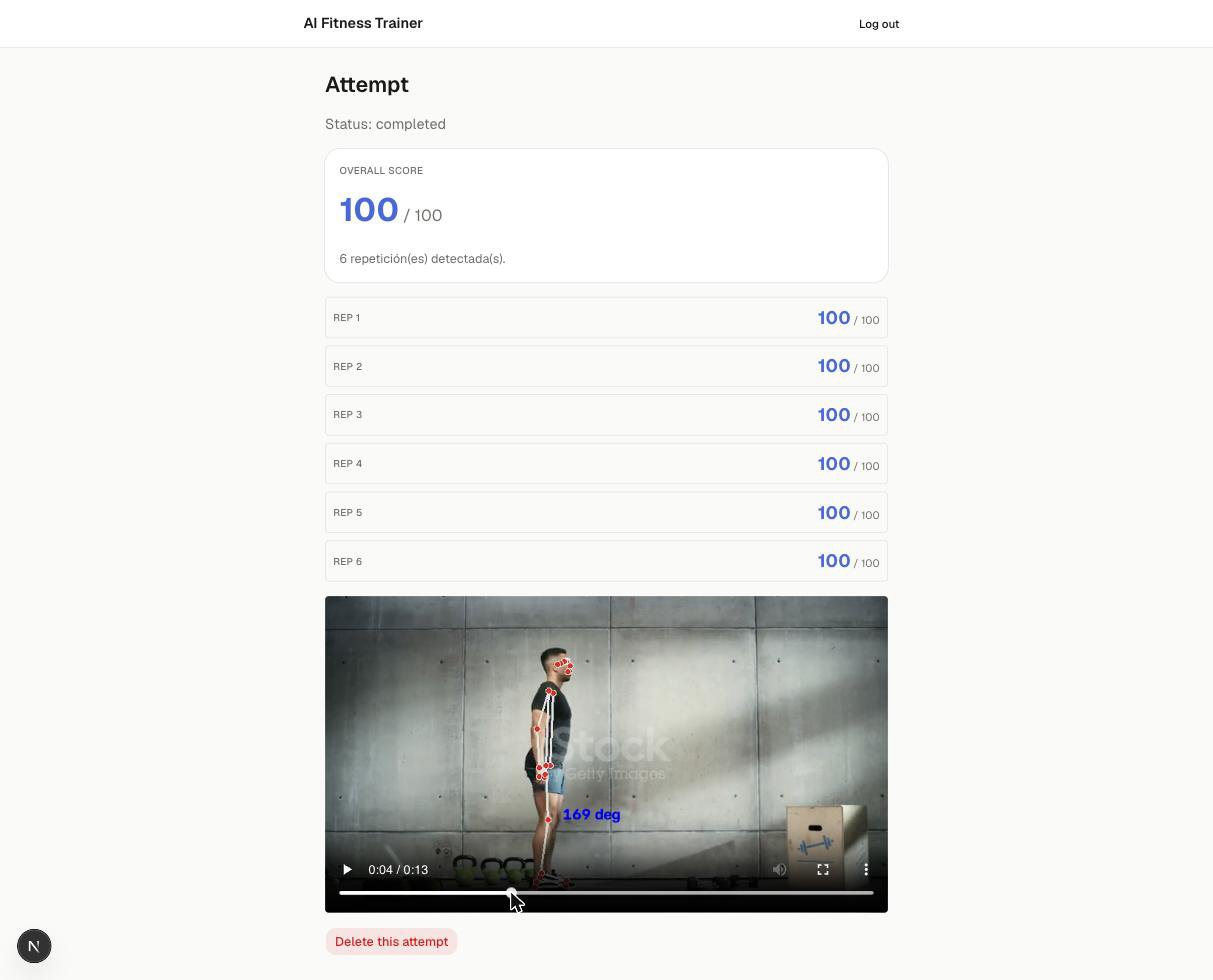
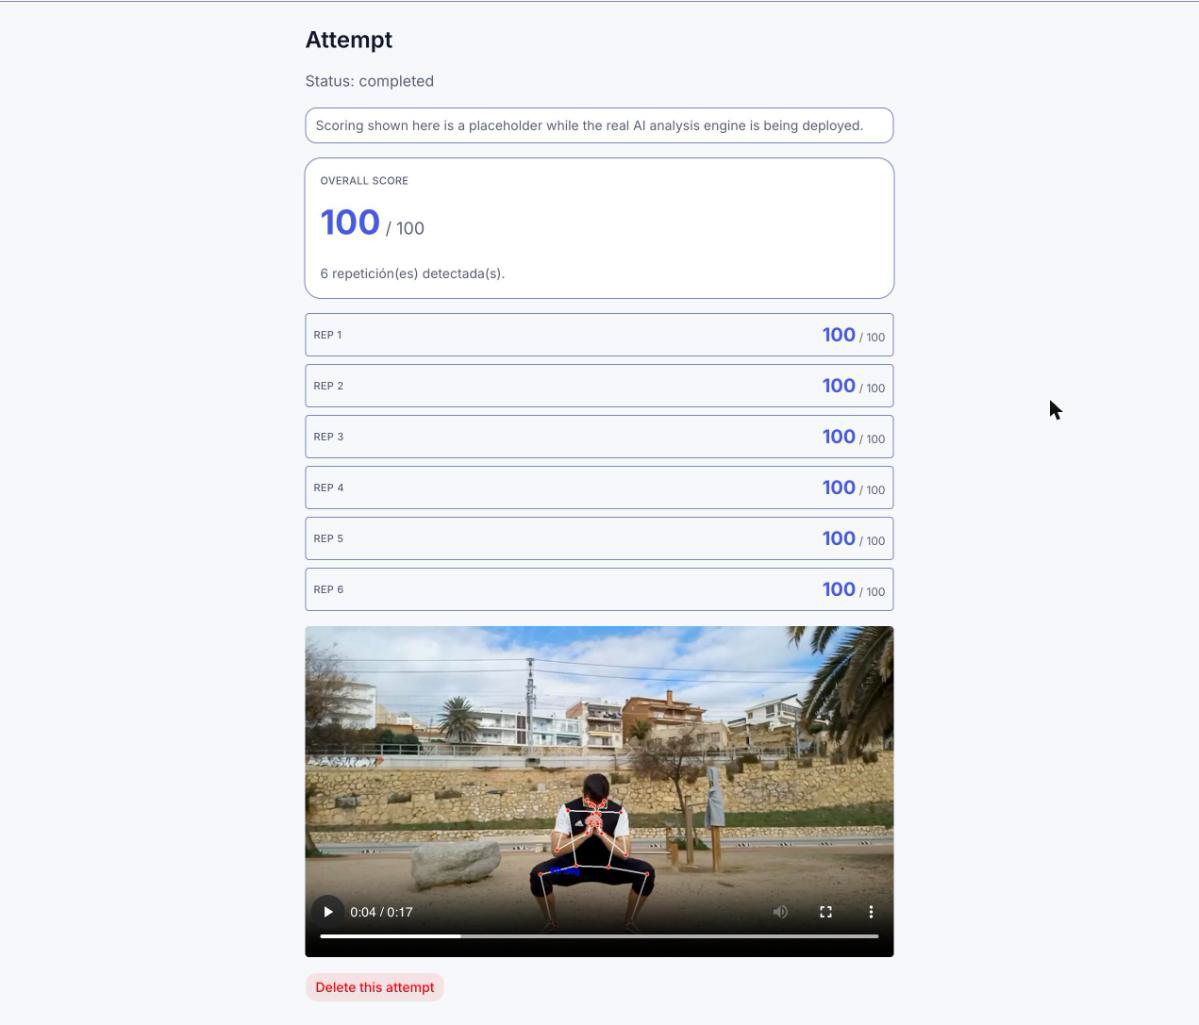
docs(memoria): re-capture Ch.5 figures; align Ch.4/Ch.5 on form-error detection
Figures 05-01..05-05 re-shot against the current (redesigned, light-theme) UI
with the dev indicator hidden. 05-04 now uses a non-watermarked squat clip.

Ch.4 CU-5: cv-service emits insufficient_depth + excessive_forward_lean per rep
since aefbc6f; knee_valgus stays in the contract but is not emitted by design
(frontal-plane fault, single sagittal camera). Updated the postcondition and the
section's compliance caveat to match, and fixed a stale GOOD_DEPTH_MIN reference
in RNF-4 (renamed to GOOD_DEPTH_ANGLE_DEG).

Ch.5: knee_valgus reworded from "not evaluated currently" to a permanent design
choice, consistent with the README. Removes the Ch.4/Ch.5 contradiction.

Claude-Session: https://claude.ai/code/session_01F2ENjEifEG27zF7PGTZqsP

diff --git a/memoria/04-requisitos.md b/memoria/04-requisitos.md
@@ -10,8 +10,8 @@ detección de pose — como si fuera una acción propia del usuario).
 ## Requisitos funcionales (casos de uso)
 
 *Los casos de uso describen el comportamiento previsto por el contrato del sistema. Donde la
-implementación actual todavía no lo cumple del todo, se indica explícitamente en el propio caso
-de uso (ver CU-5).*
+implementación se aparta de ese contrato, se indica explícitamente en el propio caso de uso
+(ver CU-5).*
 
 ### CU-1: Registrarse
 
@@ -81,17 +81,18 @@ de uso (ver CU-5).*
 - **Flujo principal:**
   1. El usuario abre el detalle de uno de sus intentos.
   2. El sistema devuelve el estado del intento y, si está completado, el score por repetición,
-     los códigos de error de técnica por repetición (previstos en el contrato y ya representados
+     los códigos de error de técnica por repetición (previstos en el contrato y representados
      en la interfaz, `frontend/src/components/attempt-result.tsx`) y una URL del video anotado.
-     **Estado actual:** `cv-service` todavía no emite estos códigos — `pipeline.py` fija
-     `"errors": []` en cada repetición — por lo que hoy el usuario ve el score y el video, pero
-     ningún consejo de técnica por repetición; esta es la detección de errores de forma pendiente
-     de Alejandro.
+     **Estado actual:** `cv-service` evalúa dos de los tres códigos del contrato —
+     `insufficient_depth` y `excessive_forward_lean` — por repetición (`cv-service/pipeline.py`,
+     desde el commit `aefbc6f`). El tercero, `knee_valgus`, permanece en el contrato y en la
+     interfaz pero no se emite por diseño: es un defecto del plano frontal y el pipeline analiza
+     una única cámara sagital (lateral).
   3. Si el usuario reproduce el video anotado, el frontend lo solicita a través del endpoint proxy
      autenticado — nunca directamente a cv-service.
-- **Postcondición:** El usuario visualiza el score y el video anotado de su intento; los consejos
-  de técnica por repetición quedan pendientes de que `cv-service` los emita. La clave interna de
-  cv-service nunca llega al navegador.
+- **Postcondición:** El usuario visualiza el score, el video anotado y los avisos de técnica por
+  repetición de los dos códigos que el pipeline evalúa. La clave interna de cv-service nunca llega
+  al navegador.
 - **Fuente:** `GET /v1/attempts/{attempt_id}`, `GET /v1/attempts/{attempt_id}/video`
   (`backend/app/api/attempts.py`).
 
@@ -183,7 +184,7 @@ mezclan ambas cosas en una sola afirmación.
 ### RNF-4: Precisión del modelo
 
 - **Real:** no es un modelo de ML entrenado con métricas de accuracy/precision/recall — es un
-  pipeline de reglas basado en umbrales de ángulo articular (p. ej. `GOOD_DEPTH_MIN` en
+  pipeline de reglas basado en umbrales de ángulo articular (p. ej. `GOOD_DEPTH_ANGLE_DEG` en
   `cv-service/pipeline.py`).
 - **Objetivo:** en vez de un target de accuracy clásico, definir un objetivo de fiabilidad de
   detección (p. ej. porcentaje de repeticiones correctamente contadas sobre un set de videos de

diff --git a/memoria/05-diseno.md b/memoria/05-diseno.md
@@ -171,11 +171,10 @@ backend revalida extensión, tamaño, códec (solo H.264) y duración (≤60 s) 
 Muestra el score global, el video anotado (reproducido mediante un *blob URL* obtenido vía
 `fetch` autenticado — nunca un `<video src>` directo, ya que eso no envía la cabecera de
 autorización) y el desglose por repetición, incluyendo los códigos de error que el *pipeline*
-evalúa hoy (`insufficient_depth` y `excessive_forward_lean`) cuando aplican. Existe un tercer
+evalúa (`insufficient_depth` y `excessive_forward_lean`) cuando aplican. Existe un tercer
 código, `knee_valgus`, en el contrato (`backend/app/schemas/contract.py`) y en el mapa de etiquetas
-del frontend (`frontend/src/lib/form-error-messages.ts`), pero no se evalúa actualmente porque
-`cv-service/pipeline.py` asume una única cámara sagital (lateral) y detectar el valgo de rodilla
-exige una vista frontal.
+del frontend (`frontend/src/lib/form-error-messages.ts`), pero no se evalúa por diseño: el valgo de
+rodilla es un defecto del plano frontal y el pipeline analiza una única cámara sagital (lateral).
 
 ### Historial de intentos (CU-6)
 
